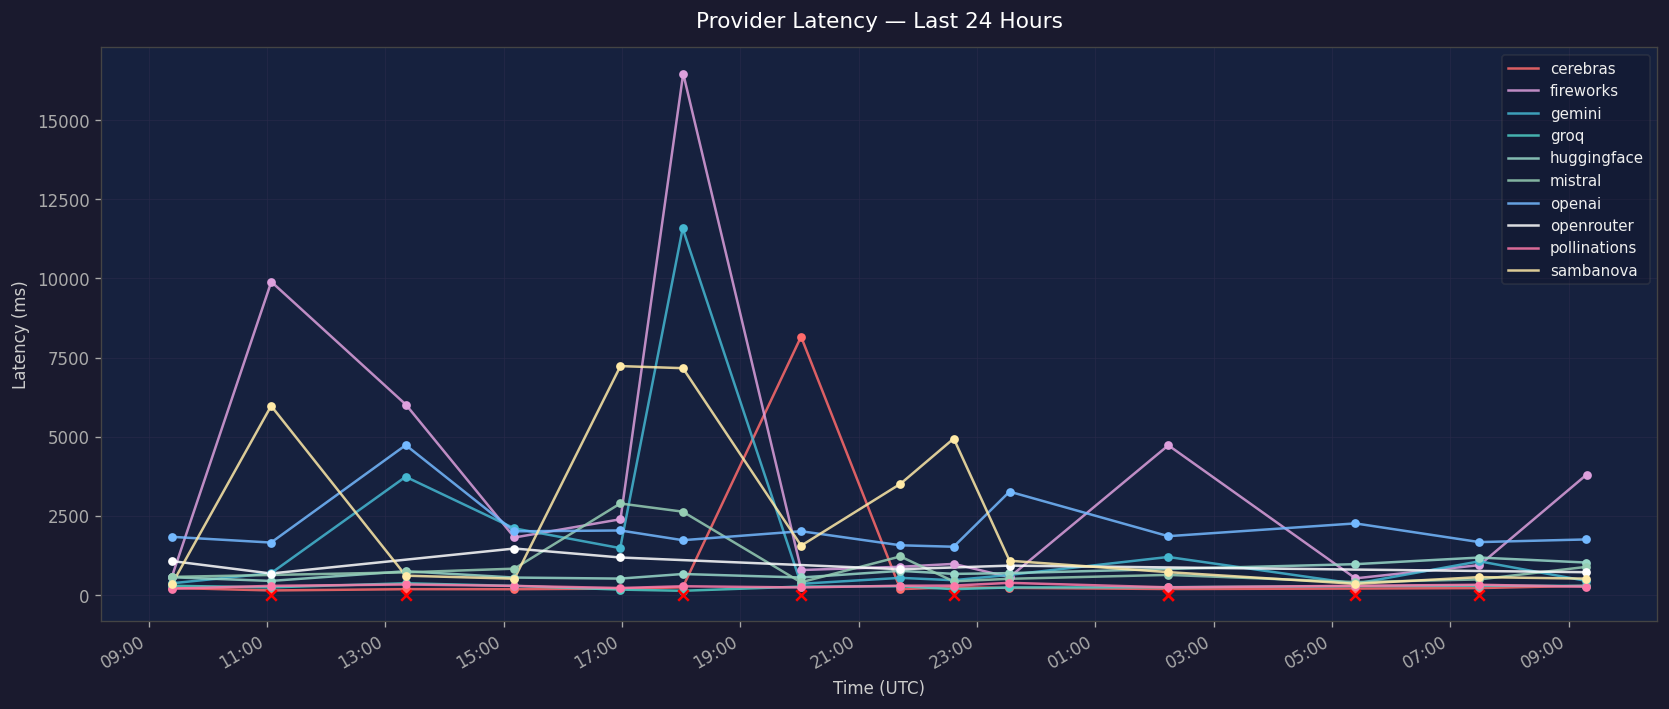
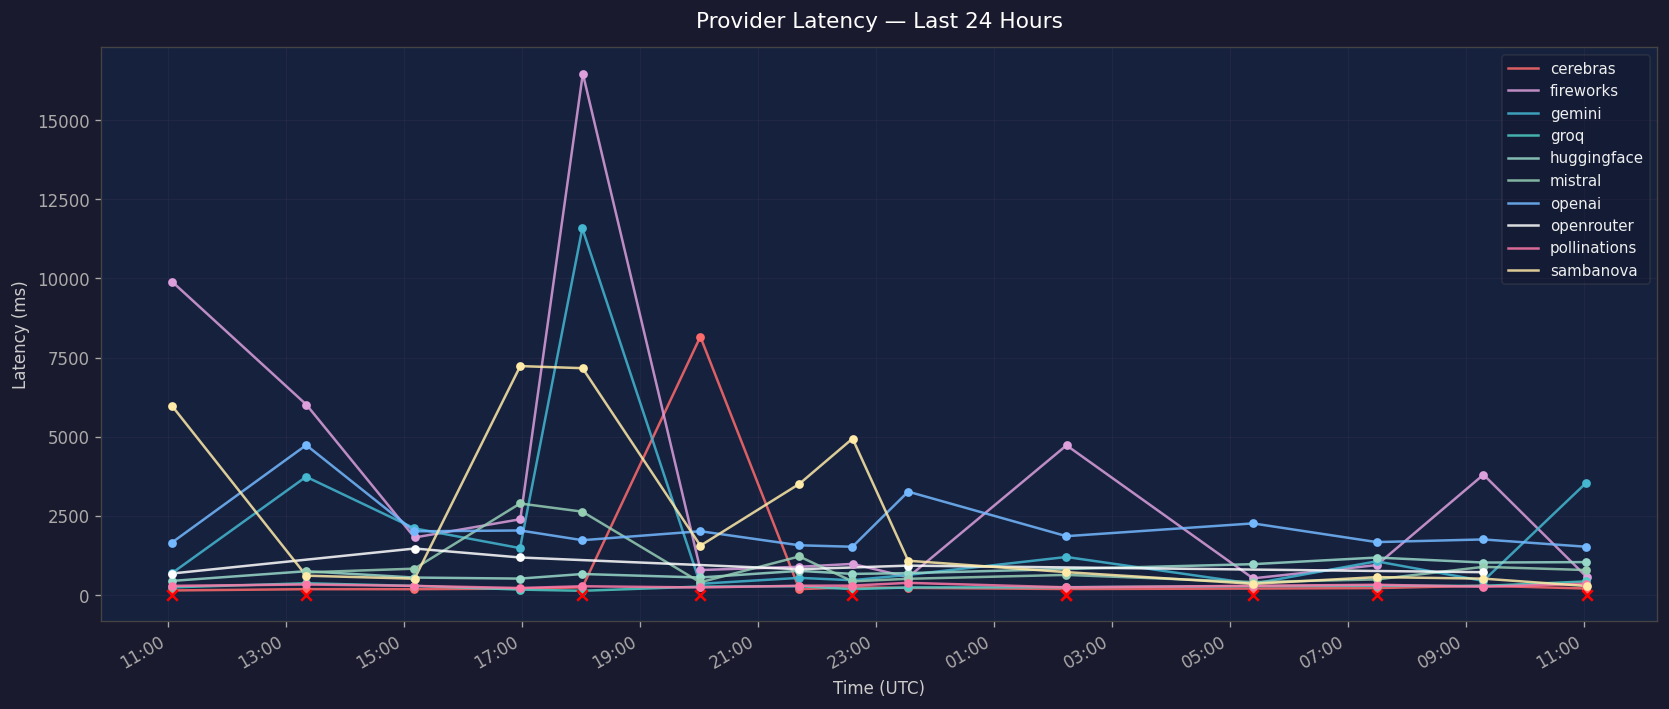
chore: hourly health check 2026-04-22 11:03 UTC

diff --git a/README.md b/README.md
@@ -465,20 +465,20 @@ Claude's default behaviour for that window. The offloading rules in this repo's
 <!-- HEALTH_START -->
 ## Provider Health
 
-*Last check: 2026-04-22 09:18 UTC — auto-generated by health-check.yml*
+*Last check: 2026-04-22 11:03 UTC — auto-generated by health-check.yml*
 
 | Provider | Status | Last Latency | Avg Latency (24h) | Uptime (24h) |
 |---|---|---|---|---|
-| **cerebras** | OK | 292ms | 778ms | 100% |
-| **fireworks** | WARN | 3800ms | 3598ms | 0% |
-| **gemini** | OK | 445ms | 1787ms | 100% |
-| **groq** | OK | 287ms | 254ms | 100% |
-| **huggingface** | OK | 1025ms | 718ms | 93% |
-| **mistral** | OK | 889ms | 971ms | 93% |
-| **openai** | OK | 1755ms | 2137ms | 100% |
-| **openrouter** | OK | 720ms | 981ms | 50% |
-| **pollinations** | OK | 262ms | 281ms | 100% |
-| **sambanova** | OK | 517ms | 2505ms | 100% |
+| **cerebras** | OK | 205ms | 776ms | 100% |
+| **fireworks** | WARN | 573ms | 3598ms | 0% |
+| **gemini** | OK | 3549ms | 2014ms | 100% |
+| **groq** | OK | 429ms | 264ms | 100% |
+| **huggingface** | OK | 1039ms | 755ms | 93% |
+| **mistral** | OK | 788ms | 987ms | 93% |
+| **openai** | OK | 1523ms | 2115ms | 100% |
+| **openrouter** | FAIL | — | 965ms | 43% |
+| **pollinations** | OK | 355ms | 292ms | 100% |
+| **sambanova** | OK | 284ms | 2501ms | 100% |
 
 ### Latency over time (last 24h)
 
